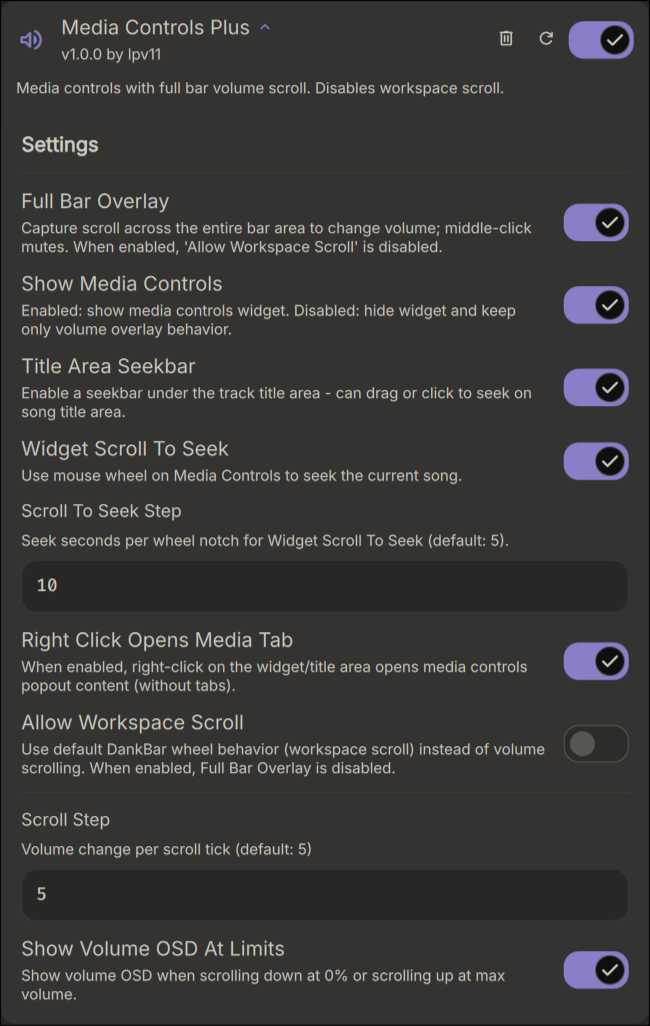
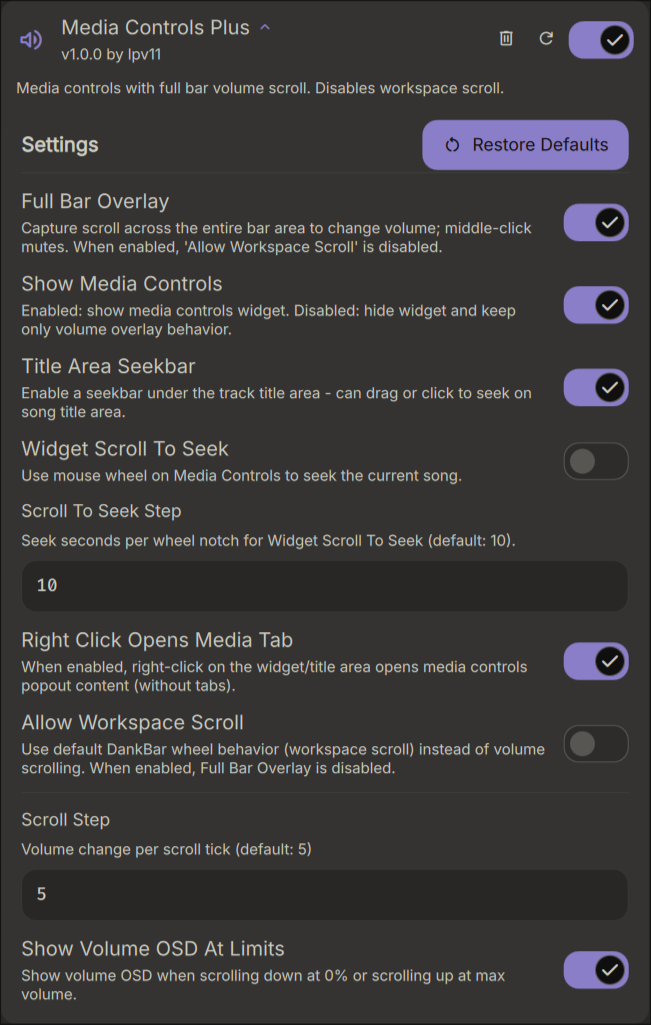
Add restore defaults button and update screenshot

diff --git a/MediaControlsPlusSettings.qml b/MediaControlsPlusSettings.qml
@@ -7,12 +7,38 @@ PluginSettings {
     id: root
     pluginId: "mediaControlsPlus"
 
-    StyledText {
+    Item {
         width: parent.width
-        text: "Settings"
-        font.pixelSize: Theme.fontSizeLarge
-        font.weight: Font.Bold
-        color: Theme.surfaceText
+        height: Math.max(settingsTitle.implicitHeight, restoreDefaultsButton.implicitHeight)
+
+        StyledText {
+            id: settingsTitle
+            anchors.left: parent.left
+            anchors.verticalCenter: parent.verticalCenter
+            text: "Settings"
+            font.pixelSize: Theme.fontSizeLarge
+            font.weight: Font.Bold
+            color: Theme.surfaceText
+        }
+
+        DankButton {
+            id: restoreDefaultsButton
+            anchors.right: parent.right
+            anchors.verticalCenter: parent.verticalCenter
+            text: "Restore Defaults"
+            iconName: "restart_alt"
+            onClicked: {
+                allowWorkspaceScrollToggle.value = false
+                fullOverlayToggle.value = true
+                showMediaControlsToggle.value = true
+                textSeekbarToggle.value = true
+                widgetAreaScrollSeekToggle.value = false
+                widgetScrollSeekStepSetting.value = widgetScrollSeekStepSetting.defaultValue
+                rightClickMediaTabToggle.value = true
+                volumeScrollStepSetting.value = volumeScrollStepSetting.defaultValue
+                showOsdAtLimitsToggle.value = true
+            }
+        }
     }
 
     Rectangle {
@@ -68,11 +94,12 @@ PluginSettings {
     }
 
     StringSetting {
+        id: widgetScrollSeekStepSetting
         settingKey: "widgetScrollSeekStep"
         label: "Scroll To Seek Step"
         description: "Seek seconds per wheel notch for Widget Scroll To Seek (default: 10)."
-        placeholder: "5"
-        defaultValue: "5"
+        placeholder: "10"
+        defaultValue: "10"
         enabled: showMediaControlsToggle.value && widgetAreaScrollSeekToggle.value
     }
 
@@ -105,6 +132,7 @@ PluginSettings {
     }
 
     StringSetting {
+        id: volumeScrollStepSetting
         settingKey: "step"
         label: "Scroll Step"
         description: "Volume change per scroll tick (default: 5)"
@@ -113,6 +141,7 @@ PluginSettings {
     }
 
     ToggleSetting {
+        id: showOsdAtLimitsToggle
         settingKey: "showOsdAtLimits"
         label: "Show Volume OSD At Limits"
         description: "Show volume OSD when scrolling down at 0% or scrolling up at max volume."
